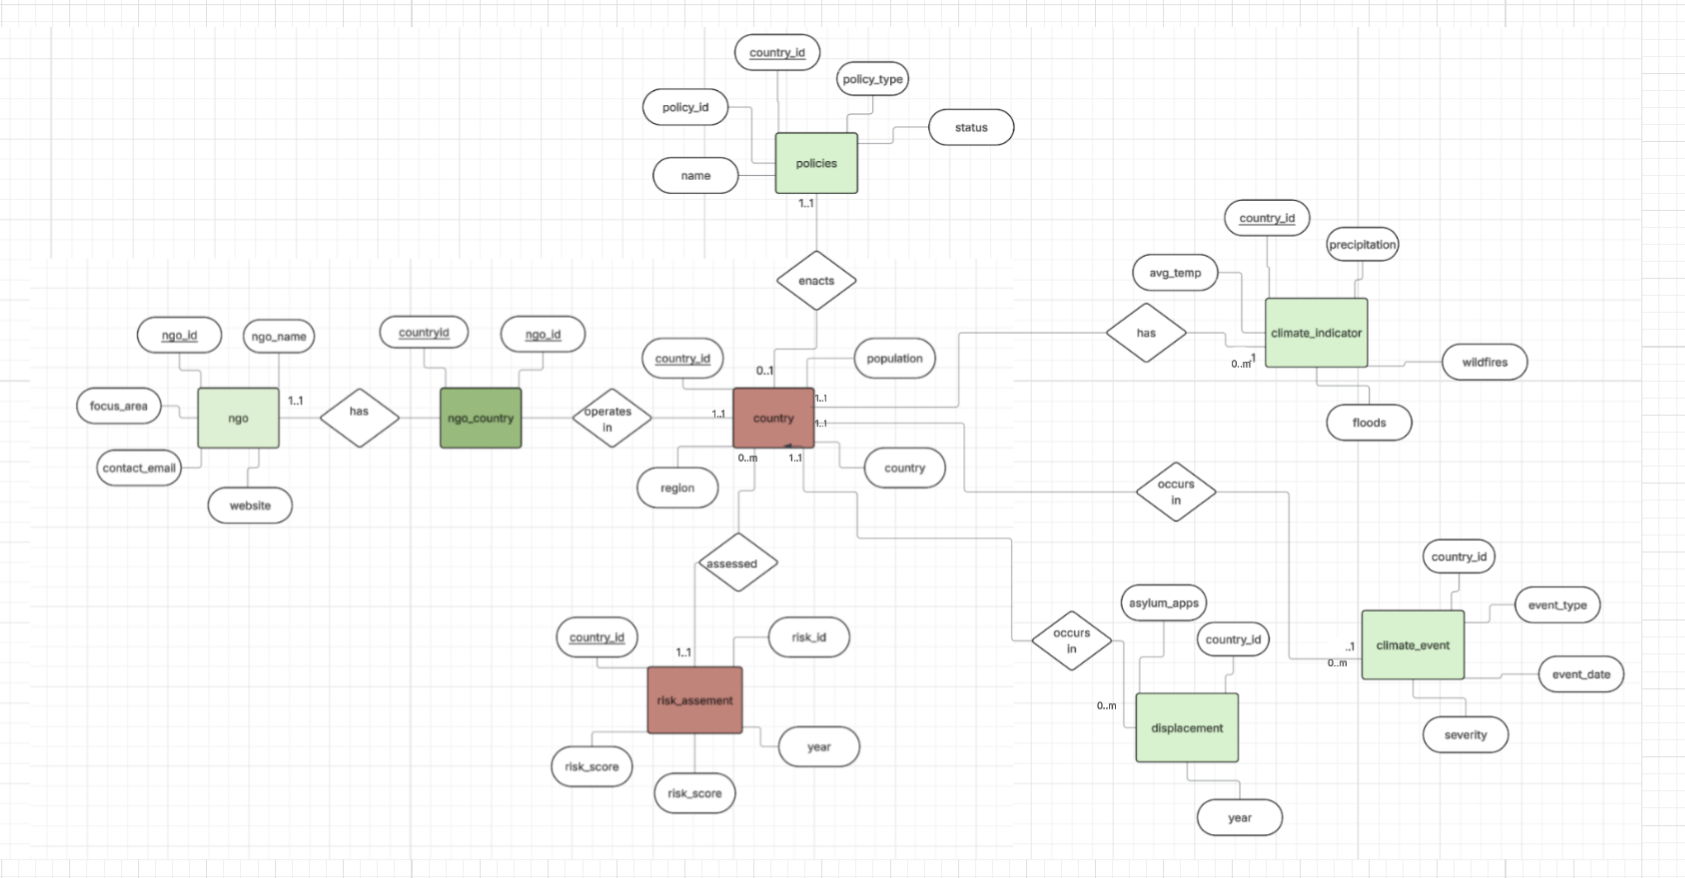
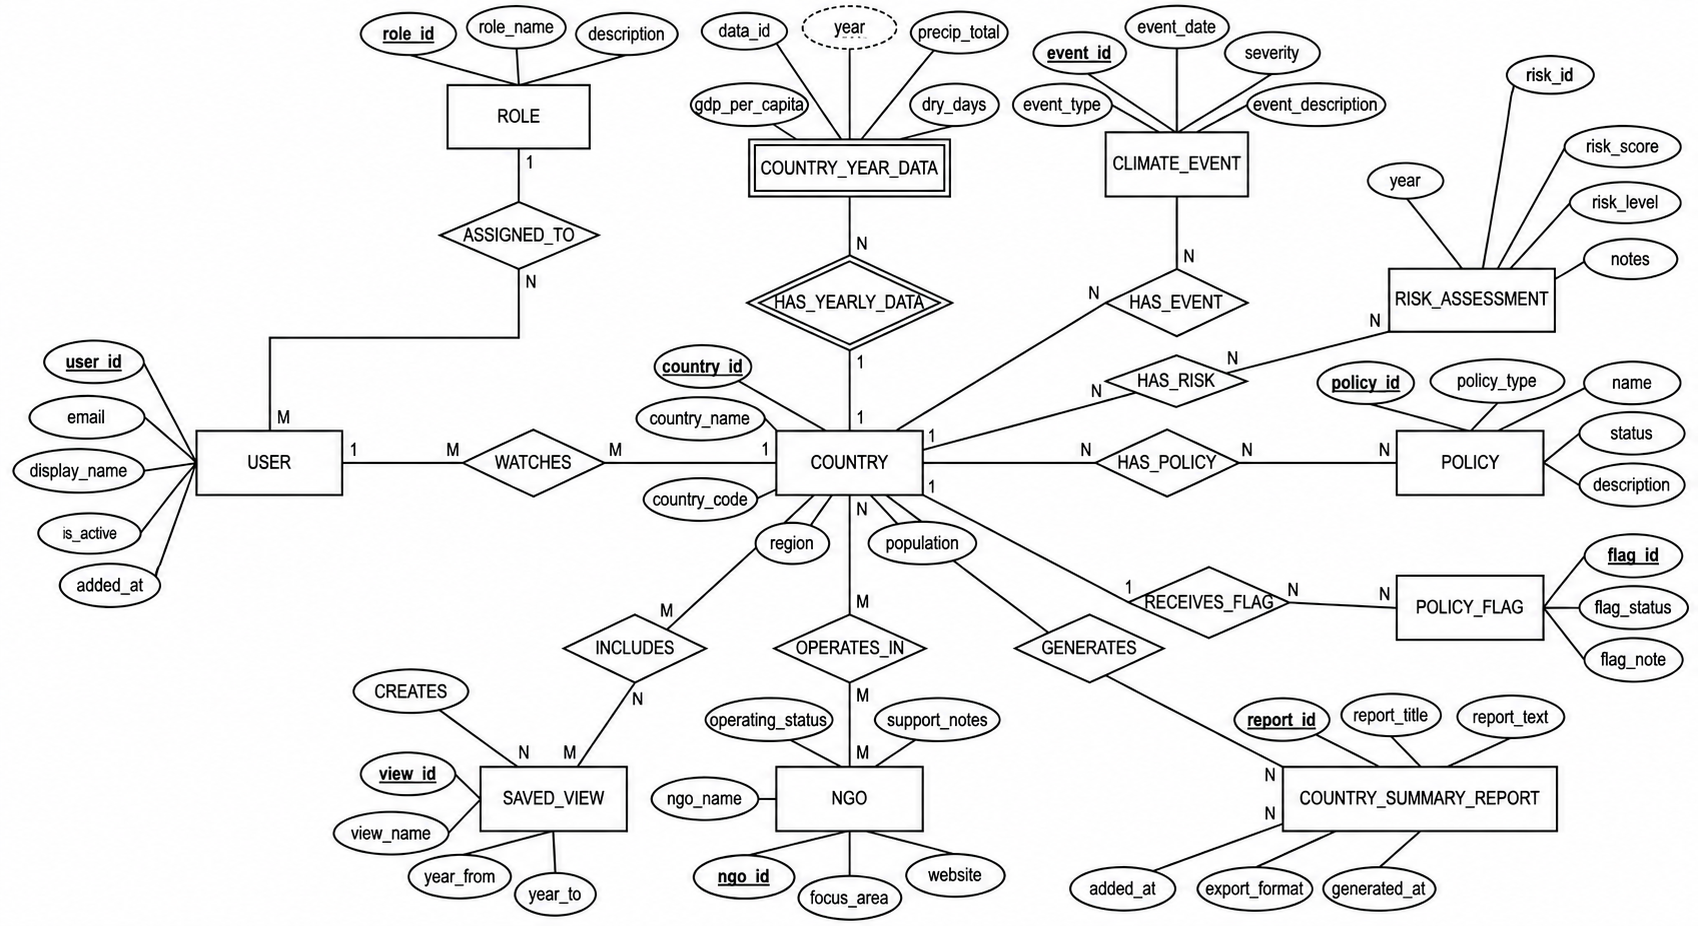
Updated ER Models

diff --git a/content/team_posts/phase2.md b/content/team_posts/phase2.md
@@ -19,41 +19,40 @@ showTableOfContents: true
 ## ER Diagrams and Relational Models
 
 ### Persona 1 - Policy Analyst
-![Policy1](Policy_AnalystER.png)
-![Policy11](GabrielDDL.png)
+![Policy1](GabrielER.png)
 
 ### Localized Data Model Description
 
-The localized data model for our policy analyst tends to focus on climate risk, climate events, and government policy in the EU countries. The country entity is in the middle because all policy, climate events, climate indicator, and risk assessment belong to a specific country and when we are collecting data for them the best way to identify them is by the country they belong to.
+The localized data model for our Policy Analyst focuses on country comparison, yearly country data, risk assessments, government policies, saved views, and policy flags. The country entity is in the middle since his analysis depends on looking at specific EU countries and as a result of this country then connects to yearly data, risk assessments, policies, saved views, and policy flags which all helps the analyst review country conditions, track policy information, and save countries for later comparison.
 
 ### Cardinality
-The entity country has one-to-many relationships with climate_indicator, climate_event, risk_assessment, and policies which just basically means that one country is able to have multiple climate records, events, risk assessments, and policies over time. 
+
+Country has one to many relationships with many entities which means that one country could have multiple yearly records, risk assessments, policies, and flags. Users also has a one to many relationship with saved_view because one user can create many saved views. Country_year_data in this case could be seen as a weak entity because it depends on country and year
+
 
 
 ### Persona 2 - Humanitarian Coordinator
 ![Humanitarian](DianaER.png)
-![Humanitarian1](DianaDDL.png)
 
 ### Localized Data Model Description
 
-The localized data model for our Humanitarian Coordinator aims to focus on displacement, climate risk, and Non-Governmental Organization (NGO) support in the EU countries. The country entity is in the middle because displacement records, risk assessments, and NGO activity all connect back to a specific country where this humanitarian support may be needed.
+The localized data model for our Humanitarian Coordinator mostly focuses on country risk, yearly country data, NGO support, and country summary reports. Once again, country is in the center because Diana needs to identify which EU countries may need humanitarian attention. In her model NGO is here because Diana needs to understand which organizations are operating in different countries. Finally, Country_summary_report is included as it helps report summaries of country conditions, risk, and humanitarian needs which she may need.
 
 ### Cardinality
 
-The entity country has one-to-many relationships with displacement and risk_assessment, which means that countries are able to have multiple displacement records and risk assessments over time. When it comes to the relationship between NGO and country, we label it as a many-to-many through ngo_country, meaning that one NGO is able to operate in many different countries, and one country can have multiple NGOs working there.
+Country here still has a one to many relationship with different entities while user has a one to many relationship with country_summary_report because one user can generate many reports. NGO and country have a many to many relationship because one NGO can operate in many countries and one country can have many NGOs. 
 
 
 ### Persona 3 - Climate-Displaced Student
 ![Student](MohammedER.png)
-![Student1](MohammedDDL.png)
 
 ### Localized Data Model Description
 
-The localized data model for our Climate-Displaced Student aims to focus on climate conditions, climate events, and climate risk in EU countries as he is just browsing through the app to gain more information on what’s going on. Similar to the other personas, the country entity is in the middle because climate indicators, climate events, and risk assessments tend to all belong to a specific country and these countries are used to identify the environmental conditions that might be contributing to climate displacement.
+The localized data model for our Climate-Displaced Student is quite simple as it focuses on watched countries, yearly country data, climate events, and risk assessments. Similarly, to our other personas country is in the center because he is using the app to learn about specific EU countries. In his model climate_event and risk_assessment would help him understand what climate issues are happening and how risky a country may be.
 
 ### Cardinality
 
-The entity country here as one-to-many relationships with climate_indicator, climate_event, and risk_assessment that means one country can have multiple climate records, climate events, and risk assessments over time. This would allow the student persona to be able to compare climate trends and risk levels across different countries.
+Users and countries have a many to many relationship through watches since one user can watch many countries and one country can be watched by many users. Countries have one to many relationships here with country_year_data, climate_event, and risk_assessment but if you look at country_year_data is treated as a weak entity because it depends on country and year.
 
 ### Global
 ![Global1](GlobalER.png)
@@ -62,73 +61,240 @@ The entity country here as one-to-many relationships with climate_indicator, cli
 ## Global Data Model DDL
 
 ```sql
-CREATE TABLE country (
-    country_id INT PRIMARY KEY,
-    country VARCHAR(100) NOT NULL,
+CREATE DATABASE IF NOT EXISTS terra_db;
+
+USE terra_db;
+
+-- TERRA Database
+-- 1. ROLES
+CREATE TABLE IF NOT EXISTS roles (
+    role_id INT NOT NULL AUTO_INCREMENT,
+    role_name VARCHAR(50) NOT NULL UNIQUE,
+    description VARCHAR(255),
+    created_at DATETIME NOT NULL DEFAULT CURRENT_TIMESTAMP,
+    updated_at DATETIME NOT NULL DEFAULT CURRENT_TIMESTAMP
+        ON UPDATE CURRENT_TIMESTAMP,
+    PRIMARY KEY (role_id)
+);
+
+-- 2. USERS
+CREATE TABLE IF NOT EXISTS users (
+    user_id INT NOT NULL AUTO_INCREMENT,
+    role_id INT NOT NULL,
+    email VARCHAR(150) NOT NULL UNIQUE,
+    display_name VARCHAR(100),
+    password_hash VARCHAR(255),
+    is_active BOOLEAN NOT NULL DEFAULT TRUE,
+    created_at DATETIME NOT NULL DEFAULT CURRENT_TIMESTAMP,
+    updated_at DATETIME NOT NULL DEFAULT CURRENT_TIMESTAMP
+        ON UPDATE CURRENT_TIMESTAMP,
+    created_by INT,
+    updated_by INT,
+    PRIMARY KEY (user_id),
+    FOREIGN KEY (role_id) REFERENCES roles(role_id),
+    FOREIGN KEY (created_by) REFERENCES users(user_id),
+    FOREIGN KEY (updated_by) REFERENCES users(user_id)
+);
+
+-- 3. COUNTRY
+CREATE TABLE IF NOT EXISTS country (
+    country_id INT NOT NULL AUTO_INCREMENT,
+    country_name VARCHAR(100) NOT NULL,
+    country_code CHAR(2) NOT NULL UNIQUE,
     region VARCHAR(100),
-    population INT
+    population INT,
+    created_at DATETIME NOT NULL DEFAULT CURRENT_TIMESTAMP,
+    updated_at DATETIME NOT NULL DEFAULT CURRENT_TIMESTAMP
+        ON UPDATE CURRENT_TIMESTAMP,
+    created_by INT,
+    updated_by INT,
+    PRIMARY KEY (country_id),
+    FOREIGN KEY (created_by) REFERENCES users(user_id),
+    FOREIGN KEY (updated_by) REFERENCES users(user_id)
 );
 
-CREATE TABLE climate_indicator (
-    indicator_id INT PRIMARY KEY,
+-- 4. COUNTRY_YEAR_DATA
+CREATE TABLE IF NOT EXISTS country_year_data (
+    data_id INT NOT NULL AUTO_INCREMENT,
     country_id INT NOT NULL,
-    year INT,
-    avg_temp DECIMAL(5,2),
-    precipitation INT,
-    flood_risk VARCHAR(50),
-    wildfire_risk VARCHAR(50),
-    FOREIGN KEY (country_id) REFERENCES country(country_id)
+    year INT NOT NULL,
+
+    gdp_per_capita DECIMAL(12,2),
+    unemployment_rate DECIMAL(5,2),
+    population INT,
+    urban_pct DECIMAL(6,3),
+
+    asylum_applications INT,
+
+    temp_mean DECIMAL(5,2),
+    heatwave_days INT,
+    precip_total DECIMAL(10,2),
+    precip_days_heavy INT,
+    dry_days INT,
+    evapotrans_total DECIMAL(10,2),
+
+    created_at DATETIME NOT NULL DEFAULT CURRENT_TIMESTAMP,
+    updated_at DATETIME NOT NULL DEFAULT CURRENT_TIMESTAMP
+        ON UPDATE CURRENT_TIMESTAMP,
+    created_by INT,
+    updated_by INT,
+
+    PRIMARY KEY (data_id),
+    UNIQUE KEY uq_country_year (country_id, year),
+    FOREIGN KEY (country_id) REFERENCES country(country_id),
+    FOREIGN KEY (created_by) REFERENCES users(user_id),
+    FOREIGN KEY (updated_by) REFERENCES users(user_id)
 );
 
-CREATE TABLE climate_event (
-    event_id INT PRIMARY KEY,
+-- 5. CLIMATE_EVENT
+CREATE TABLE IF NOT EXISTS climate_event (
+    event_id INT NOT NULL AUTO_INCREMENT,
     country_id INT NOT NULL,
     event_type VARCHAR(100),
     event_date DATE,
     severity VARCHAR(50),
-    FOREIGN KEY (country_id) REFERENCES country(country_id)
+    event_description TEXT,
+    created_at DATETIME NOT NULL DEFAULT CURRENT_TIMESTAMP,
+    updated_at DATETIME NOT NULL DEFAULT CURRENT_TIMESTAMP
+        ON UPDATE CURRENT_TIMESTAMP,
+    created_by INT,
+    updated_by INT,
+    PRIMARY KEY (event_id),
+    FOREIGN KEY (country_id) REFERENCES country(country_id),
+    FOREIGN KEY (created_by) REFERENCES users(user_id),
+    FOREIGN KEY (updated_by) REFERENCES users(user_id)
 );
 
-CREATE TABLE risk_assessment (
-    risk_id INT PRIMARY KEY,
+-- 6. RISK_ASSESSMENT
+CREATE TABLE IF NOT EXISTS risk_assessment (
+    risk_id INT NOT NULL AUTO_INCREMENT,
     country_id INT NOT NULL,
-    year INT,
+    year INT NOT NULL,
     risk_score DECIMAL(5,2),
     risk_level VARCHAR(50),
-    FOREIGN KEY (country_id) REFERENCES country(country_id)
+    label_method VARCHAR(150),
+    notes TEXT,
+    created_at DATETIME NOT NULL DEFAULT CURRENT_TIMESTAMP,
+    updated_at DATETIME NOT NULL DEFAULT CURRENT_TIMESTAMP
+        ON UPDATE CURRENT_TIMESTAMP,
+    created_by INT,
+    updated_by INT,
+    PRIMARY KEY (risk_id),
+    UNIQUE KEY uq_risk_country_year (country_id, year),
+    FOREIGN KEY (country_id) REFERENCES country(country_id),
+    FOREIGN KEY (created_by) REFERENCES users(user_id),
+    FOREIGN KEY (updated_by) REFERENCES users(user_id)
 );
 
-CREATE TABLE displacement (
-    record_id INT PRIMARY KEY,
-    country_id INT NOT NULL,
-    year INT,
-    asylum_apps INT,
-    FOREIGN KEY (country_id) REFERENCES country(country_id)
-);
-
-CREATE TABLE policies (
-    policy_id INT PRIMARY KEY,
+-- 7. POLICIES
+CREATE TABLE IF NOT EXISTS policies (
+    policy_id INT NOT NULL AUTO_INCREMENT,
     country_id INT NOT NULL,
     name VARCHAR(150),
     policy_type VARCHAR(100),
     status VARCHAR(50),
+    description TEXT,
+    created_at DATETIME NOT NULL DEFAULT CURRENT_TIMESTAMP,
+    updated_at DATETIME NOT NULL DEFAULT CURRENT_TIMESTAMP
+        ON UPDATE CURRENT_TIMESTAMP,
+    created_by INT,
+    updated_by INT,
+    PRIMARY KEY (policy_id),
+    FOREIGN KEY (country_id) REFERENCES country(country_id),
+    FOREIGN KEY (created_by) REFERENCES users(user_id),
+    FOREIGN KEY (updated_by) REFERENCES users(user_id)
+);
+
+-- 8. POLICY_FLAG
+CREATE TABLE IF NOT EXISTS policy_flag (
+    flag_id INT NOT NULL AUTO_INCREMENT,
+    country_id INT NOT NULL,
+    user_id INT NOT NULL,
+    flag_status VARCHAR(50) NOT NULL,
+    flag_note TEXT,
+    created_at DATETIME NOT NULL DEFAULT CURRENT_TIMESTAMP,
+    updated_at DATETIME NOT NULL DEFAULT CURRENT_TIMESTAMP
+        ON UPDATE CURRENT_TIMESTAMP,
+    PRIMARY KEY (flag_id),
+    FOREIGN KEY (country_id) REFERENCES country(country_id),
+    FOREIGN KEY (user_id) REFERENCES users(user_id)
+);
+
+-- 9. SAVED_VIEWS
+CREATE TABLE IF NOT EXISTS saved_views (
+    view_id INT NOT NULL AUTO_INCREMENT,
+    user_id INT NOT NULL,
+    view_name VARCHAR(150) NOT NULL,
+    year_from INT,
+    year_to INT,
+    created_at DATETIME NOT NULL DEFAULT CURRENT_TIMESTAMP,
+    updated_at DATETIME NOT NULL DEFAULT CURRENT_TIMESTAMP
+        ON UPDATE CURRENT_TIMESTAMP,
+    PRIMARY KEY (view_id),
+    FOREIGN KEY (user_id) REFERENCES users(user_id)
+);
+
+-- 10. SAVED_VIEW_COUNTRY
+CREATE TABLE IF NOT EXISTS saved_view_country (
+    view_id INT NOT NULL,
+    country_id INT NOT NULL,
+    PRIMARY KEY (view_id, country_id),
+    FOREIGN KEY (view_id) REFERENCES saved_views(view_id),
     FOREIGN KEY (country_id) REFERENCES country(country_id)
 );
 
-CREATE TABLE ngo (
-    ngo_id INT PRIMARY KEY,
+-- 11. NGO
+CREATE TABLE IF NOT EXISTS ngo (
+    ngo_id INT NOT NULL AUTO_INCREMENT,
     ngo_name VARCHAR(150) NOT NULL,
     focus_area VARCHAR(100),
     contact_email VARCHAR(150),
-    website VARCHAR(200)
+    website VARCHAR(200),
+    created_at DATETIME NOT NULL DEFAULT CURRENT_TIMESTAMP,
+    updated_at DATETIME NOT NULL DEFAULT CURRENT_TIMESTAMP
+        ON UPDATE CURRENT_TIMESTAMP,
+    created_by INT,
+    updated_by INT,
+    PRIMARY KEY (ngo_id),
+    FOREIGN KEY (created_by) REFERENCES users(user_id),
+    FOREIGN KEY (updated_by) REFERENCES users(user_id)
 );
 
-CREATE TABLE ngo_country (
+-- 12. NGO_COUNTRY
+CREATE TABLE IF NOT EXISTS ngo_country (
     ngo_id INT NOT NULL,
     country_id INT NOT NULL,
+    operating_status VARCHAR(50) DEFAULT 'Active',
+    support_notes TEXT,
     PRIMARY KEY (ngo_id, country_id),
     FOREIGN KEY (ngo_id) REFERENCES ngo(ngo_id),
     FOREIGN KEY (country_id) REFERENCES country(country_id)
+);
+
+-- 13. WATCHLIST
+CREATE TABLE IF NOT EXISTS watchlist (
+    watchlist_id INT NOT NULL AUTO_INCREMENT,
+    user_id INT NOT NULL,
+    country_id INT NOT NULL,
+    added_at DATETIME NOT NULL DEFAULT CURRENT_TIMESTAMP,
+    PRIMARY KEY (watchlist_id),
+    UNIQUE KEY uq_watchlist_user_country (user_id, country_id),
+    FOREIGN KEY (user_id) REFERENCES users(user_id),
+    FOREIGN KEY (country_id) REFERENCES country(country_id)
+);
+
+-- 14. COUNTRY_SUMMARY_REPORT
+CREATE TABLE IF NOT EXISTS country_summary_report (
+    report_id INT NOT NULL AUTO_INCREMENT,
+    country_id INT NOT NULL,
+    user_id INT NOT NULL,
+    report_title VARCHAR(150),
+    report_text TEXT,
+    export_format VARCHAR(20),
+    generated_at DATETIME NOT NULL DEFAULT CURRENT_TIMESTAMP,
+    PRIMARY KEY (report_id),
+    FOREIGN KEY (country_id) REFERENCES country(country_id),
+    FOREIGN KEY (user_id) REFERENCES users(user_id)
 );
 ```
 
